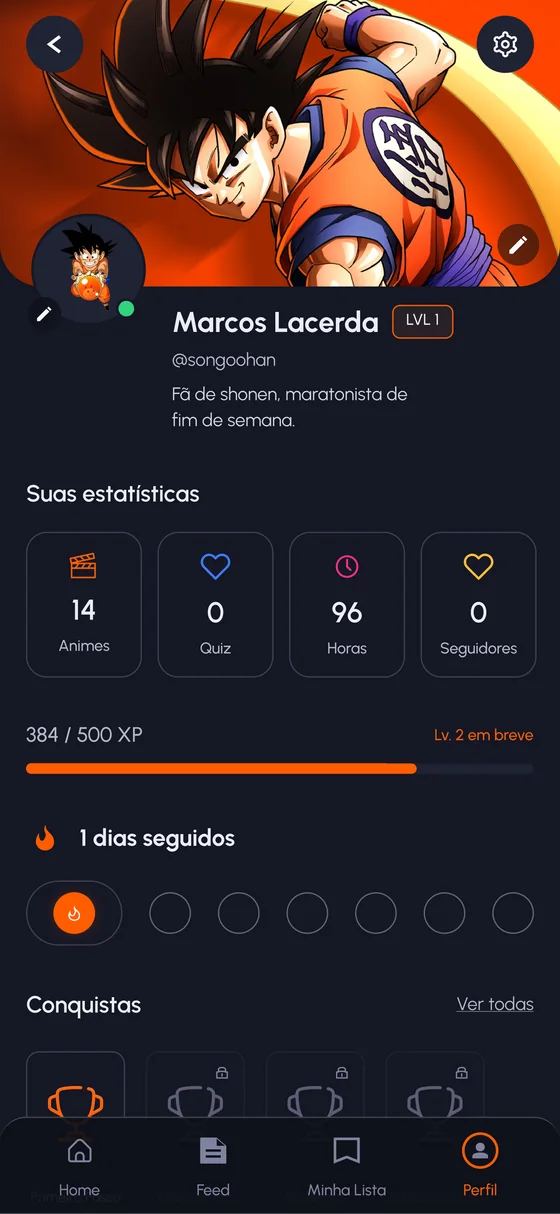
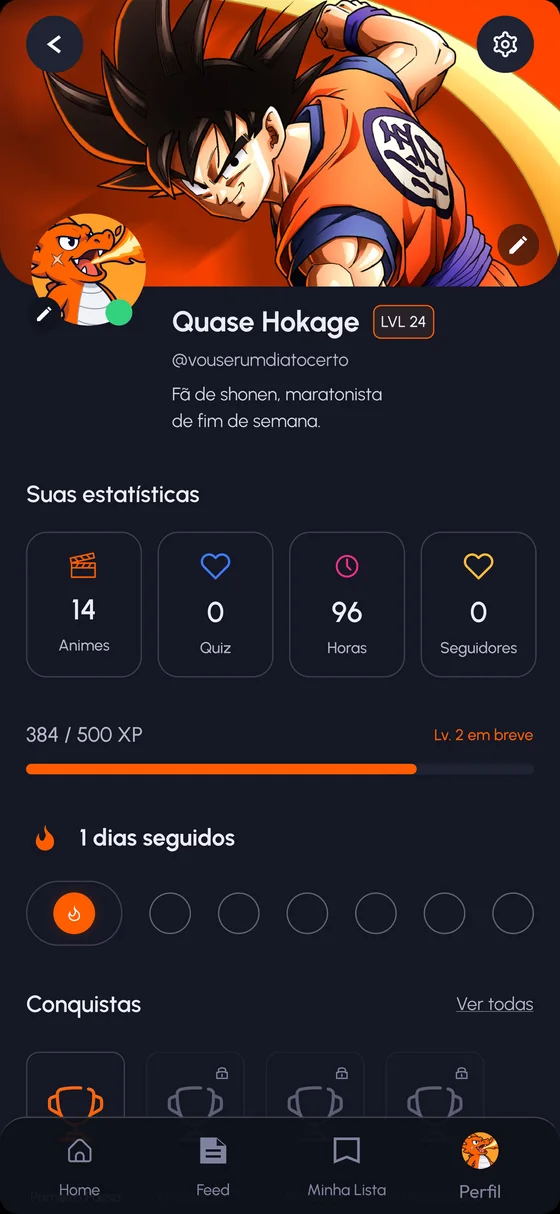
LP: novo hero PNG com fade; perfil novo; cards sem efeito 3D; copy do Feed
Claude-Session: https://claude.ai/code/session_012y8QeL6hqXnQuq4nwJyrhU

diff --git a/src/main.js b/src/main.js
@@ -39,7 +39,7 @@ const conquistasScreen = shot('app-conquistas.webp', 'Conquistas no ANIMAE, com 
 const buscaScreen = shot('app-busca.webp', 'Busca e descoberta no ANIMAE');
 
 const tabs = [
-  { id: 'feed', label: 'Feed social', title: 'A conversa continua depois do episódio', text: 'Veja o que seus amigos acabaram de assistir e avaliar, entre em debates e jogue o quiz do dia com o Draco. Tudo no mesmo lugar, sem pular entre 8 apps.', a: feedScreen, b: comunidadeScreen },
+  { id: 'feed', label: 'Feed social', title: 'A conversa continua depois do episódio', text: 'Veja o que seus amigos acabaram de assistir e avaliar, entre em debates e jogue o quiz do dia com o Draco.', a: feedScreen, b: comunidadeScreen },
   { id: 'diario', label: 'Seu diário', title: 'Marque cada episódio e veja sua jornada', text: 'Acompanhe o que você assiste, anime por anime. Um toque marca o episódio, o progresso avança e a sua lista fica sempre em dia, do jeito que você quer.', a: listaScreen, b: detalheScreen },
   { id: 'badges', label: 'Perfil e badges', title: 'Sua jornada vira conquista', text: 'Cada episódio rende XP. Mantenha a sequência, suba de nível, desbloqueie conquistas e mostre quem você é no mundo anime.', a: perfilScreen, b: conquistasScreen },
 ];
@@ -66,8 +66,10 @@ document.querySelector('#root').innerHTML = `
       </div>
       <p class="proof"><span class="dots"><i style="--c:#ff5c02"></i><i style="--c:#3c7bff"></i><i style="--c:#ff2e8a"></i><i style="--c:#ff9f2a"></i></span><span><b>Android primeiro</b> · grátis no acesso antecipado</span></p>
       <div class="hero__stage">
-        <div class="bubble">Tá olhando o quê? Entra logo na lista.</div>
-        <img class="hero__hand" src="${IMG}draco-mao-home.webp" alt="A mão do Draco segurando um celular com a home do ANIMAE" width="560" height="743">
+        <picture>
+          <source type="image/webp" srcset="${IMG}hero-mao.webp">
+          <img class="hero__hand" src="${IMG}hero-mao.png" alt="A mão do Draco segurando um celular com a home do ANIMAE" width="1089" height="1445" fetchpriority="high">
+        </picture>
       </div>
     </div>
   </section>
@@ -121,7 +123,7 @@ document.querySelector('#root').innerHTML = `
         <p class="sub">O ANIMAE não é um projeto de fim de semana. É construído por quem passou anos em produto: cada decisão tem um porquê e cada feature nasce de uma hipótese. Quem entra na lista acompanha tudo e ajuda a decidir o que vem depois.</p>
         <a class="btn" href="${MAIN_URL}">${MAIN_LABEL}</a>
       </div>
-      <div class="split__card">${phone(flag('Trocar: perfil com números reais') + perfilScreen, 'phone--tall')}</div>
+      <div class="split__card">${phone(perfilScreen, 'phone--tall')}</div>
     </div>
   </section>
 
@@ -240,7 +242,7 @@ if (g && !reduce) {
     .from('.hero .lead', { y: 24, opacity: 0, duration: .8 }, '-=.35')
     .from('.hero__cta .btn', { y: 24, opacity: 0, duration: .7, stagger: .1 }, '-=.5')
     .from('.proof', { y: 16, opacity: 0, duration: .6 }, '-=.4')
-    .from('.hero__hand', { y: 140, opacity: 0, duration: 1.1, ease: 'power3.out', clearProps: 'transform,opacity' }, '-=.9');
+    .from('.hero__hand', { y: 72, scale: .965, opacity: 0, duration: 1.5, ease: 'power3.out', clearProps: 'transform,opacity' }, '-=.8');
 
   // blocos que entram ao rolar
   const rise = (targets, extra = {}) => document.querySelectorAll(targets).forEach(el =>

diff --git a/src/styles.css b/src/styles.css
@@ -216,14 +216,13 @@ h3{font-size:clamp(24px,1.7vw,32px);line-height:1.15}
 /* cards do problema: igual ao Figma (03 · problema) */
 .bento{display:grid;grid-template-columns:483px 442px;grid-template-rows:auto;gap:12px;justify-content:center;margin:48px auto;perspective:none}
 .bento__col{display:flex;flex-direction:column;gap:12px}
-.bcard{grid-column:auto;grid-row:auto;position:relative;display:block;padding:0;min-height:0;border-radius:24px;background:#1f2333 center/cover no-repeat;border:0;box-shadow:inset 0 2px 4px rgba(255,255,255,.08);overflow:hidden}
+.bcard{grid-column:auto;grid-row:auto;position:relative;display:block;padding:0;min-height:0;border-radius:24px;background:#1f2333 center/cover no-repeat;border:0;box-shadow:none;overflow:hidden}
 .bcard--a{height:516px}.bcard--b,.bcard--c{height:252px;width:442px}
 .bcard__text{position:relative;z-index:2;padding:28px}
 .bcard h3{font-size:28px;line-height:1.1}
 .bcard p{margin-top:8px;font-size:14px;line-height:1.5;font-weight:400;color:#b0b3c6;max-width:325px}
 .bcard--b p{max-width:253px}.bcard--c p{max-width:219px;color:var(--t0)}
 .bcard img.bcard__collage{position:absolute;left:0;bottom:0;width:100%;height:auto;display:block}
-.bcard::after{content:"";position:absolute;inset:0;border-radius:inherit;box-shadow:inset 0 2px 4px rgba(255,255,255,.08);pointer-events:none;z-index:3}
 @media (max-width:1000px){
   .bento{grid-template-columns:minmax(0,483px)}
   .bcard,.bcard--tall{grid-column:auto}
@@ -256,3 +255,9 @@ h3{font-size:clamp(24px,1.7vw,32px);line-height:1.15}
 .hero__hand{display:block;width:100%;height:auto;margin:0 auto;filter:drop-shadow(0 24px 32px rgba(0,0,0,.45))}
 .hero__stage .bubble{top:56px;left:-8px}
 @media (max-width:640px){.hero__stage{max-height:480px;width:min(360px,100%)}.hero__stage .bubble{left:0;top:24px;max-width:168px;font-size:14px}}
+
+/* hero: mão do Draco (PNG com glow) + fade */
+.hero__stage{position:relative;display:block;width:min(540px,100%);height:auto;max-height:680px;margin:56px auto 0;overflow:hidden;-webkit-mask-image:linear-gradient(to bottom,#000 70%,rgba(0,0,0,.55) 86%,transparent 100%);mask-image:linear-gradient(to bottom,#000 70%,rgba(0,0,0,.55) 86%,transparent 100%)}
+.hero__stage picture{display:block}
+.hero__hand{display:block;width:100%;height:auto;margin:0 auto;filter:none}
+@media (max-width:640px){.hero__stage{width:min(380px,100%);max-height:520px;margin-top:40px}}
